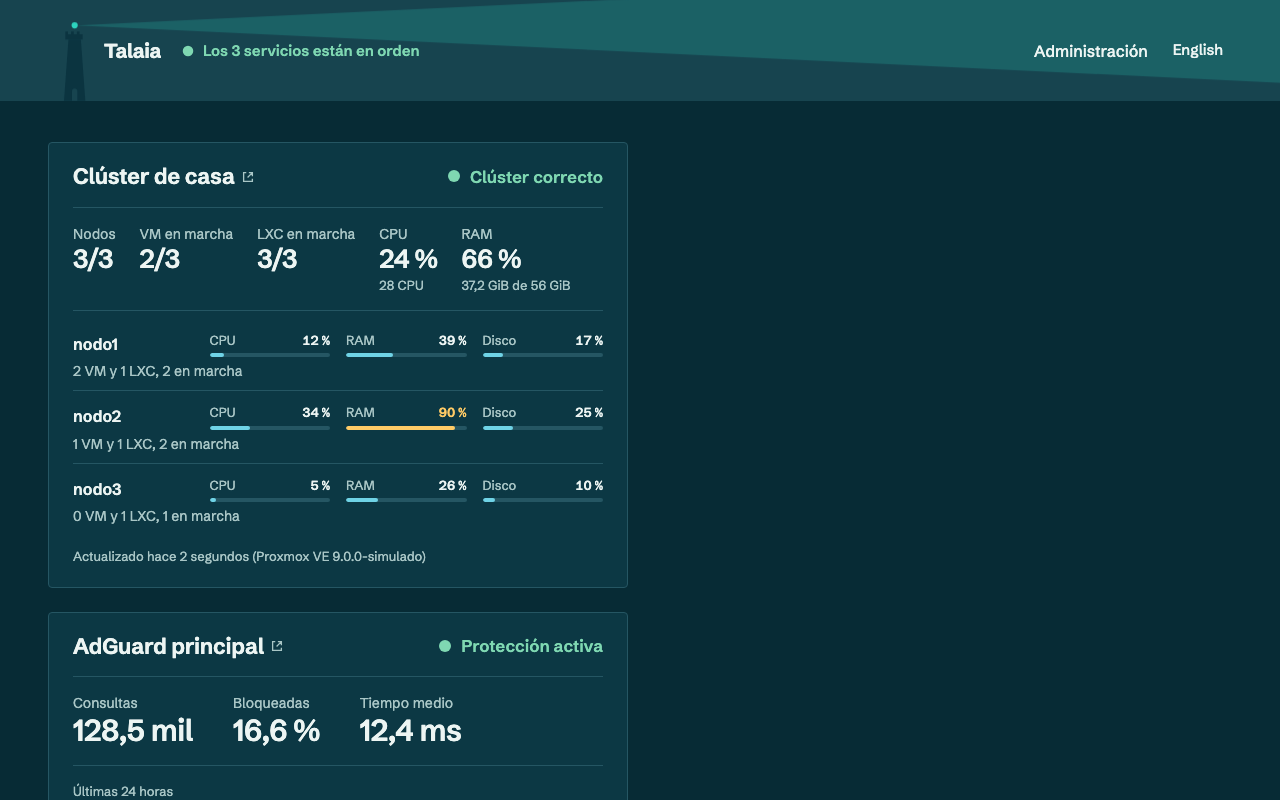
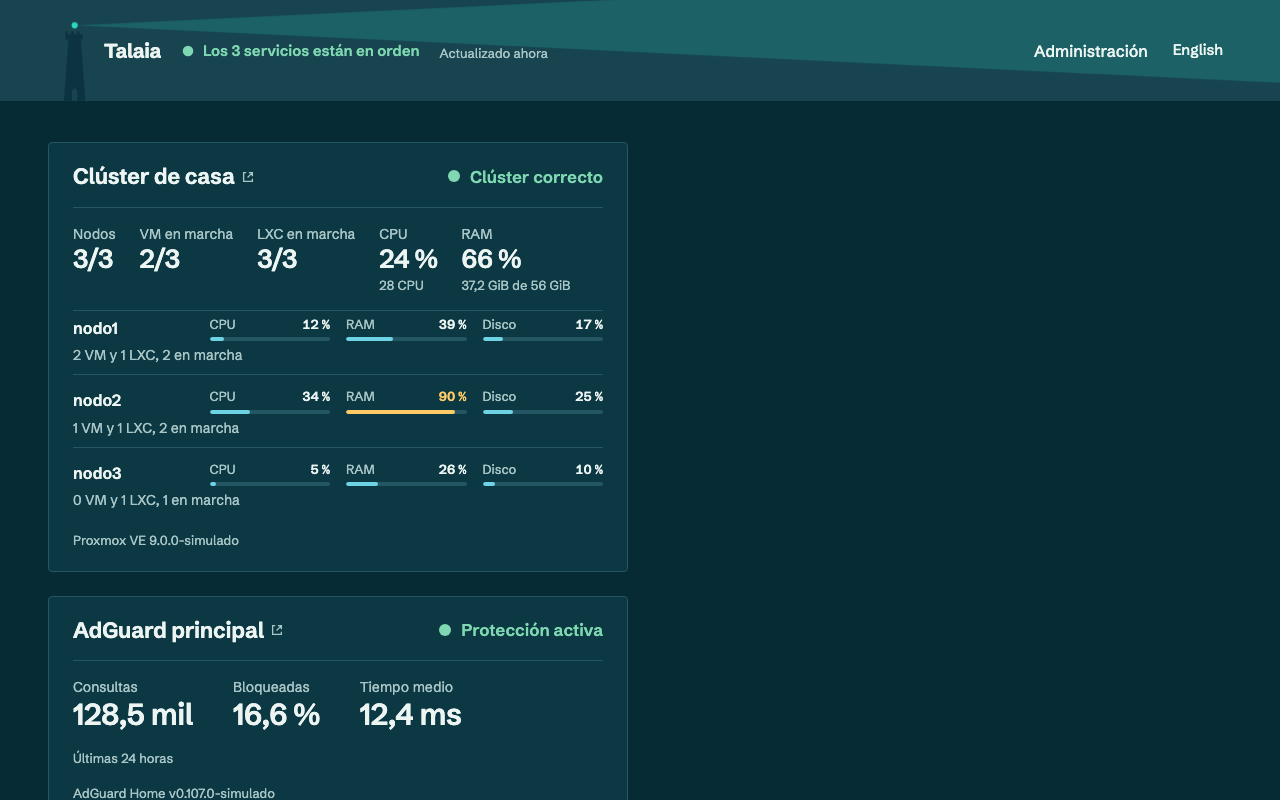
Pule el panel: antigüedad en la cabecera, secciones coherentes y bloques sin huecos

diff --git a/web/src/styles.css b/web/src/styles.css
@@ -261,6 +261,7 @@ dialog::backdrop { background: rgb(7 43 53 / 0.6); }
 .watch { font-size: 0.9375rem; color: var(--ink); line-height: 1.4; padding-block: 0.25rem; }
 .watch .service-state { font-size: inherit; }
 .watch .service-state svg { width: 0.875rem; height: 0.875rem; }
+.watch-age { color: var(--ink-soft); font-size: 0.8125rem; }
 .watch-item { font-weight: 600; text-decoration-thickness: 2px; text-underline-offset: 3px; }
 .watch-item.warn { text-decoration-color: var(--alert-warn); }
 .watch-item.bad { text-decoration-color: var(--alert-bad); }
@@ -271,7 +272,7 @@ dialog::backdrop { background: rgb(7 43 53 / 0.6); }
 .lookout-main { width: 100%; max-width: 92rem; margin-inline: auto; padding: clamp(1.25rem, 3vw, 2.5rem) clamp(1rem, 4vw, 3rem) 3rem; display: grid; gap: 1.5rem; align-content: start; }
 .live-lost { color: var(--warn); font-weight: 550; }
 .panel-grid { display: grid; grid-template-columns: repeat(12, minmax(0, 1fr)); grid-auto-rows: minmax(0.5rem, auto); column-gap: 1.5rem; }
-.panel-grid > div { display: flex; min-width: 0; padding-bottom: 1.5rem; }
+.panel-grid > div { display: flex; align-items: flex-start; min-width: 0; padding-bottom: 1.5rem; }
 .page-tabs { display: flex; flex-wrap: wrap; gap: 0.25rem 1.25rem; border-bottom: 1px solid var(--line); }
 .page-tab { display: inline-flex; align-items: center; min-height: 2.75rem; padding: 0.25rem 0.125rem; color: var(--ink-soft); background: none; border: 0; border-bottom: 3px solid transparent; border-radius: 0; font-weight: 500; text-decoration: none; }
 .page-tab:hover { color: var(--ink); }
@@ -298,7 +299,10 @@ dialog::backdrop { background: rgb(7 43 53 / 0.6); }
 .service-state.muted { color: var(--ink-soft); font-weight: 500; }
 .service-notice { color: var(--danger); font-size: 0.9375rem; }
 .service.stale .figures, .service.stale .tops { opacity: 0.62; }
-.figures { display: flex; flex-wrap: wrap; gap: 0.75rem 2.5rem; margin: 0; padding-block: 1rem; border-block: 1px solid var(--line); }
+/* Secciones de un bloque: una línea encima de cada una, nunca debajo. */
+.figures, .ha-section, .tops, .nodes { border-top: 1px solid var(--line); padding-top: 1rem; }
+.ha-section .figures { border-top: 0; padding-top: 0.25rem; }
+.figures { display: flex; flex-wrap: wrap; gap: 0.75rem 2.5rem; margin: 0; }
 .figures div { display: grid; align-content: start; }
 .figures.compact { gap: 0.75rem 1.5rem; }
 .figures.compact dd { font-size: clamp(1.375rem, 2.1vw, 1.625rem); }
@@ -334,6 +338,7 @@ details > summary { cursor: pointer; list-style-position: outside; margin-left: 
 .guest-id { color: var(--ink-soft); }
 .no-guests { color: var(--ink-soft); font-size: 0.875rem; margin: 0.25rem 0 0.5rem 1rem; }
 .ha-section { display: grid; gap: 0.25rem; }
+.ha-section h3 + .figures { margin-top: 0.25rem; }
 .ha-section h3 { margin: 0; font-size: 0.9375rem; font-weight: 600; }
 .ha-entities { list-style: none; margin: 0; padding: 0; display: grid; grid-template-columns: repeat(auto-fill, minmax(min(100%, 13rem), 1fr)); gap: 0 2.5rem; }
 .ha-entities li { display: flex; justify-content: space-between; gap: 1rem; padding-block: 0.1875rem; font-size: 0.9375rem; }

diff --git a/web/src/Dashboard.tsx b/web/src/Dashboard.tsx
@@ -103,7 +103,12 @@ function watch(dashboard: DashboardState | undefined, t: I18n["t"]) {
   }
   const worst = watched.reduce<Tone>((tone, item) => (SEVERITY[item.tone] > SEVERITY[tone] ? item.tone : tone), "good");
   const checking = watched.length > 0 && watched.every((item) => item.tone === "muted" && !item.connection.data);
+  const updated = watched.reduce<string | null>((latest, item) => {
+    const at = item.connection.last_success_at;
+    return at && (!latest || at > latest) ? at : latest;
+  }, null);
   return {
+    updated,
     tone: checking ? ("muted" as Tone) : worst,
     total: watched.length,
     attention: watched
@@ -164,7 +169,8 @@ function WatchSummary({
 }
 
 export default function Dashboard({ path, navigate }: { path: string; navigate: (path: string) => void }) {
-  const { t } = useI18n();
+  const { t, lang } = useI18n();
+  const now = useNow(10000);
   const live = useLiveDashboard();
   const dashboard = useQuery({ queryKey: ["dashboard"], queryFn: api.dashboard });
   const link = (to: string, label: string, className: string, current?: boolean) => (
@@ -213,6 +219,9 @@ export default function Dashboard({ path, navigate }: { path: string; navigate: 
         <div className="lookout-title">
           <span className="wordmark">Talaia</span>
           <WatchSummary summary={summary} goTo={goTo} />
+          {summary.updated && summary.tone !== "muted" && (
+            <span className="watch-age">{t("age.checked", { age: relativeTime(summary.updated, now, lang) })}</span>
+          )}
         </div>
         {link("/admin", t("dashboard.admin.short"), "quiet")}
         <LanguageSwitch />
@@ -275,7 +284,8 @@ export function Service({ connection }: { connection: ConnectionState }) {
   const state = serviceState(connection, t);
 
   const age = connection.last_success_at ? relativeTime(connection.last_success_at, now, lang) : null;
-  const freshness = failed ? (age ? t("age.last", { age }) : t("age.never")) : age && t("age.checked", { age });
+  // Cuando todo va bien, la antigüedad está en la cabecera; el bloque solo la indica si su dato es viejo.
+  const freshness = failed ? (age ? t("age.last", { age }) : t("age.never")) : null;
   const version = data ? widget.footer(data) : "";
 
   return (
@@ -305,8 +315,7 @@ export function Service({ connection }: { connection: ConnectionState }) {
       {failed && <p role="status" className="service-notice">{collectError(connection.error)}</p>}
       {data ? <widget.Body data={data} /> : null}
       <p className="service-foot">
-        {freshness}
-        {version && ` (${version})`}
+        {freshness && version ? `${freshness} (${version})` : freshness || version}
       </p>
     </section>
   );

diff --git a/docs/proyecto/03-diseno-funcional.md b/docs/proyecto/03-diseno-funcional.md
@@ -53,10 +53,11 @@ Mientras no exista un administrador, todas las rutas muestran el asistente de pr
 
 **Con servicios:** cada página muestra sus bloques en la posición elegida en el editor. Con más de una página aparecen pestañas.
 
-- **Recuadro:** cada bloque tiene fondo y borde, sin sombra. Si su estado es un aviso o un fallo, el borde superior es grueso y ámbar o rojo, para verlo a distancia. Los bloques de una misma fila igualan su altura.
+- **Recuadro:** cada bloque tiene fondo y borde, sin sombra. Si su estado es un aviso o un fallo, el borde superior es grueso y ámbar o rojo, para verlo a distancia.
+- **Secciones del bloque:** cada sección (cifras, listas, tablas o un apartado con título) lleva una línea encima y ninguna debajo. Dentro de un apartado con título, las cifras no llevan línea propia.
 - **Resumen en la cabecera:** junto al nombre, el estado de todos los servicios del panel, de cualquier página. Si todos están bien, «Los N servicios están en orden»; si no, «N servicios necesitan atención:» y sus nombres, con los fallos primero. Cada nombre lleva a su bloque, en su página, y le da el foco. Los servicios en neutro, como «Sin túneles», no cuentan como avisos.
 - **Atalaya:** la luz y el haz de la cabecera toman el color del peor estado: el acento elegido si todo va bien, ámbar con avisos y rojo con fallos, con el haz más intenso y la línea inferior del mismo color. Al cambiar el peor estado, el haz vuelve a barrer una vez, salvo con movimiento reducido.
-- **Altura:** un bloque crece si su contenido lo necesita, sin solaparse.
+- **Altura:** un bloque mide lo que su contenido, aunque en el editor se le haya dado más alto, y crece si lo necesita, sin solaparse. Los bloques de una misma fila pueden acabar a distinta altura.
 - **Pantallas de menos de 900 px:** los bloques se apilan en una columna, de arriba abajo y de izquierda a derecha.
 - **Página vacía:** indica que no tiene servicios.
 - **Sesión obligatoria:** si está activa, sin sesión se muestra el inicio de sesión. Quien tuviera el panel abierto deja de verlo.
@@ -65,7 +66,7 @@ Mientras no exista un administrador, todas las rutas muestran el asistente de pr
 |---|---|
 | Nombre del servicio | Enlace a su URL, con un icono, que se abre en una pestaña nueva |
 | Actualización | En vivo. Si se pierde, muestra un aviso y reintenta |
-| Antigüedad | «Actualizado hace…», recalculado cada 10 segundos |
+| Antigüedad | En la cabecera, «Actualizado hace…» con el dato más reciente, recalculado cada 10 segundos. Un bloque solo indica la suya si falla («Último dato hace…»); si no, su pie da solo el servicio y su versión |
 | Estado | Se indica con texto y forma, no solo con color |
 | Cifras | Un escalón por debajo del nombre y del estado, para que el estado se lea primero |
 

diff --git a/docs/usuario/manual-de-usuario.md b/docs/usuario/manual-de-usuario.md
@@ -117,7 +117,7 @@ Cuando hay servicios, cada uno tiene su propio bloque. Su nombre es un enlace qu
 
 ![Panel con un servicio de AdGuard](img/07-panel.png)
 
-**De un vistazo:** junto al nombre de Talaia verás si todo va bien, por ejemplo «Los 6 servicios están en orden». Si algún servicio tiene un aviso o falla, la cabecera lo dice y nombra cada servicio, aunque esté en otra página; pulsa un nombre para ir a su bloque. La luz de la atalaya también cambia: ámbar con avisos y roja con fallos. Esos bloques llevan además una franja del mismo color en su borde superior.
+**De un vistazo:** junto al nombre de Talaia verás si todo va bien, por ejemplo «Los 6 servicios están en orden», y cuándo se actualizaron los datos por última vez. Si algún servicio tiene un aviso o falla, la cabecera lo dice y nombra cada servicio, aunque esté en otra página; pulsa un nombre para ir a su bloque. La luz de la atalaya también cambia: ámbar con avisos y roja con fallos. Esos bloques llevan además una franja del mismo color en su borde superior.
 
 **Estado de AdGuard:**
 
@@ -418,7 +418,7 @@ En la administración, abre **Panel**. Cada conexión nueva se añade sola a la 
 
 **Pulsa Guardar panel** para aplicar los cambios, o **Descartar** para deshacerlos.
 
-**Cómo se ve después:** en el panel, cada bloque crece si su contenido lo necesita, aunque en el editor aparezca recortado. En pantallas estrechas, los bloques se apilan en una sola columna.
+**Cómo se ve después:** en el panel, cada bloque mide lo que su contenido: crece si lo necesita, aunque en el editor aparezca recortado, y no deja huecos en blanco si le diste más alto. En pantallas estrechas, los bloques se apilan en una sola columna.
 
 **Privacidad:** un servicio que no esté en ninguna página no sale por la API pública, aunque Talaia lo siga consultando.
 

diff --git a/docs/proyecto/05-decisiones.md b/docs/proyecto/05-decisiones.md
@@ -190,3 +190,8 @@ Cada decisión recoge su motivo y sus consecuencias. Si una decisión cambia, se
 - **Contexto:** con `set -e`, cualquier paso fallido entre parar el servicio y comprobar la versión nueva cortaba el script, y Talaia quedaba parado, a veces sin ningún mensaje. Envolver cada paso en una función desactivaría `set -e` dentro de las funciones que agrupan varios pasos, y sus fallos intermedios pasarían inadvertidos.
 - **Decisión:** armar un `trap ERR` con `set -E`, y otro para `INT`, `TERM` y `HUP`, solo en ese tramo. Ambos llevan a una única marcha atrás, compartida con el caso de que la versión nueva no arranque. La copia se restaura solo si está completa: hasta entonces no se ha cambiado nada, y borrar la base de datos para restaurar una copia parcial la perdería.
 - **Consecuencias:** un paso nuevo queda cubierto sin hacer nada más. Durante la marcha atrás se ignoran las señales para no dejarla a medias, de modo que puede durar hasta agotar los intentos de `/healthz`.
+
+## DEC-38: bloques de la altura de su contenido y antigüedad en la cabecera
+- **Contexto:** cada bloque repetía «Actualizado hace…» aunque todo estuviera al día, las secciones internas llevaban líneas de forma desigual, y un bloque se estiraba hasta la altura de su fila y dejaba huecos en blanco dentro del recuadro.
+- **Decisión:** la cabecera da una sola antigüedad, la del dato más reciente; un bloque solo da la suya si falla. Cada sección lleva una línea encima y ninguna debajo. Un bloque mide lo que su contenido, sin estirarse.
+- **Consecuencias:** los bloques de una fila pueden acabar a distinta altura, y el espacio sobrante queda fuera del recuadro. Para saber cuándo respondió un servicio concreto que funciona, hay que fiarse de la cabecera, porque todos se consultan en el mismo ciclo.

diff --git a/docs/proyecto/06-estado-y-cambios.md b/docs/proyecto/06-estado-y-cambios.md
@@ -15,8 +15,16 @@
 | 9 | WGDashboard: túneles y peers | Terminado y verificado con el WGDashboard del cliente, publicado en `v0.2.0` |
 | 10 | OPNsense: estado de WireGuard | Terminado y verificado con el OPNsense del cliente y un peer conectado, publicado en `v0.2.1` |
 | 11 | Panel de un vistazo: estado global en la atalaya y bloques con aviso visibles | Terminado y verificado con el panel real del cliente, publicado en `v0.2.2` |
+| 12 | Pulido del panel: antigüedad en la cabecera, secciones coherentes y bloques sin huecos | Programado; pendiente de revisión del cliente |
 
 ## Historial
+
+### Hito 12 (2026-11-09)
+
+**Cambiado:**
+- La antigüedad de los datos aparece una sola vez, en la cabecera del panel. Un bloque solo indica la suya si falla, y su pie da el servicio y su versión.
+- Cada sección de un bloque lleva una línea encima y ninguna debajo.
+- Un bloque mide lo que su contenido, sin estirarse hasta la altura de su fila.
 
 ### Espaciado de cifras y direcciones (2026-11-09)
 

diff --git a/docs/proyecto/04-plan-de-pruebas.md b/docs/proyecto/04-plan-de-pruebas.md
@@ -202,7 +202,7 @@ Las pruebas E2E comparten un único recorrido: cada escenario parte del estado q
 | E2E-34 | Alta de WGDashboard | RF-10, RF-91 |
 | E2E-35 | WGDashboard en el panel: túneles, peers y estados | RF-20, RF-90 |
 | E2E-36 | WireGuard en el bloque de OPNsense, opcional y sin nombres de peers | RF-20, RF-73, RF-74 |
-| E2E-37 | La atalaya resume el peor estado y lleva al bloque | RF-26 |
+| E2E-37 | La atalaya resume el peor estado y la antigüedad, y lleva al bloque | RF-26 |
 
 Los servicios simulados reproducen las rutas y la forma de respuesta usadas. Las discrepancias con el servicio real las cubren las verificaciones manuales.
 
